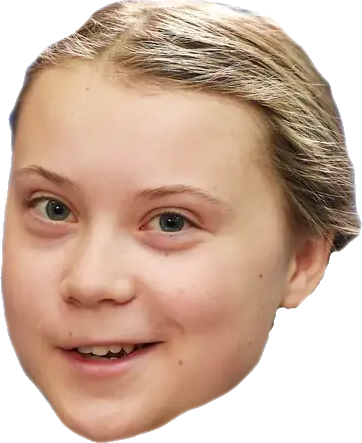
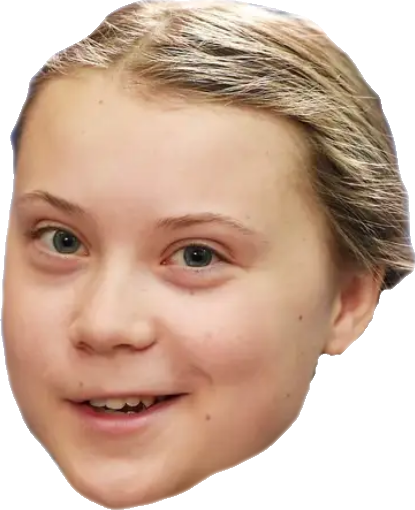
Resized faces

diff --git a/popup.html b/popup.html
@@ -50,7 +50,7 @@
     </div>
     <div id="progressBar" class="progressBar">
       <progress id="progress-bar-yangness" max="100" value="0" class="html5 bar shadow zigZag"></progress>
-      <img class="progressBarImg" id="progessBarImg" src="progressFaces/GretaFace.png" />
+      <img class="progressBarImg" id="progessBarImg" src="progressFaces/How Dare You.png" />
 
       <div id="belowProgessBar" class="belowProgressBarText">
         <div id="yangCaption" class="yangCaption">Greta Says: loading....</div>
